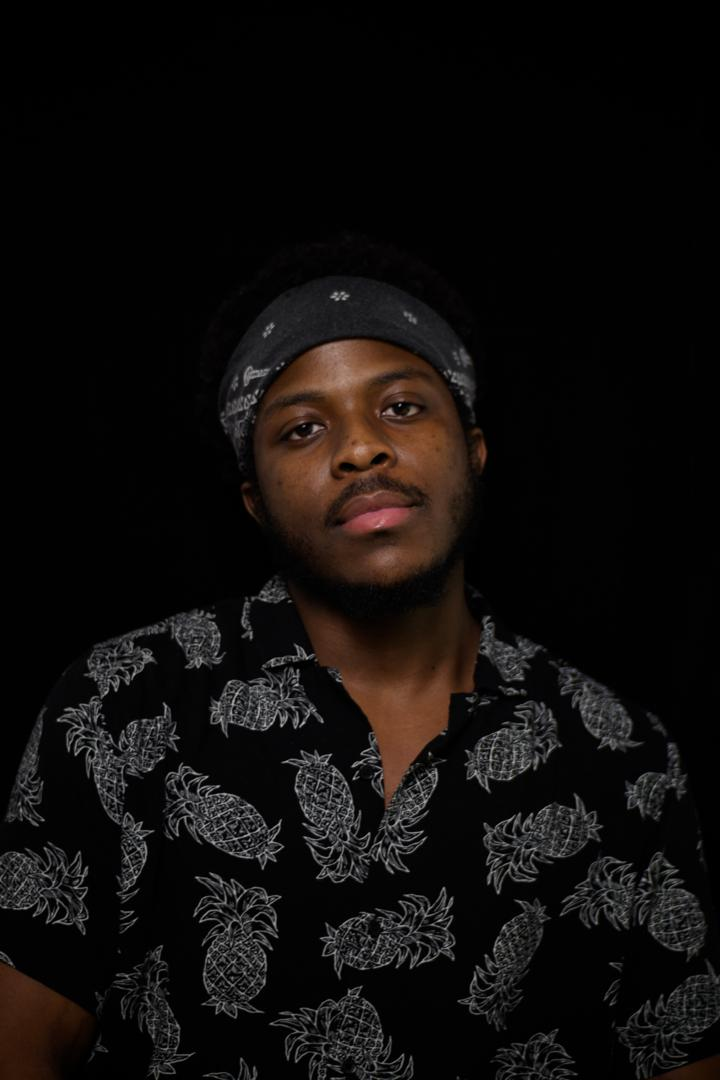
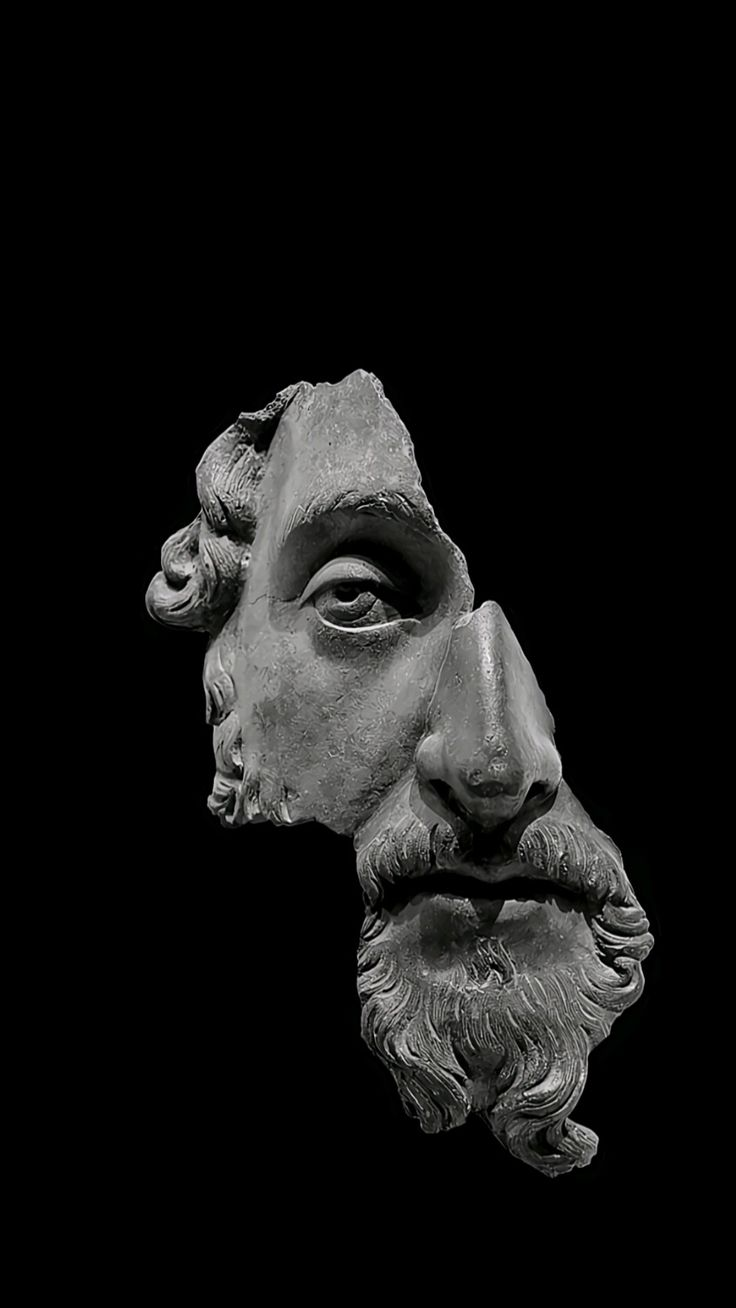
feat: interim portrait swap, reframe and honest alt text

diff --git a/src/components/HeroPortrait.tsx b/src/components/HeroPortrait.tsx
@@ -21,11 +21,11 @@ export default function HeroPortrait() {
     <motion.div style={{ y }} className="relative h-[115%] w-full will-change-transform">
       <Image
         src="/portrait.jpg"
-        alt="Madalitso Daka"
+        alt="Fragmented bronze portrait of Marcus Aurelius"
         fill
         preload
         sizes="(max-width: 760px) 100vw, 46vw"
-        className="object-cover object-[50%_22%] grayscale-[0.3] contrast-[1.05]"
+        className="object-cover object-[50%_45%] grayscale-[0.3] contrast-[1.05]"
       />
     </motion.div>
   );